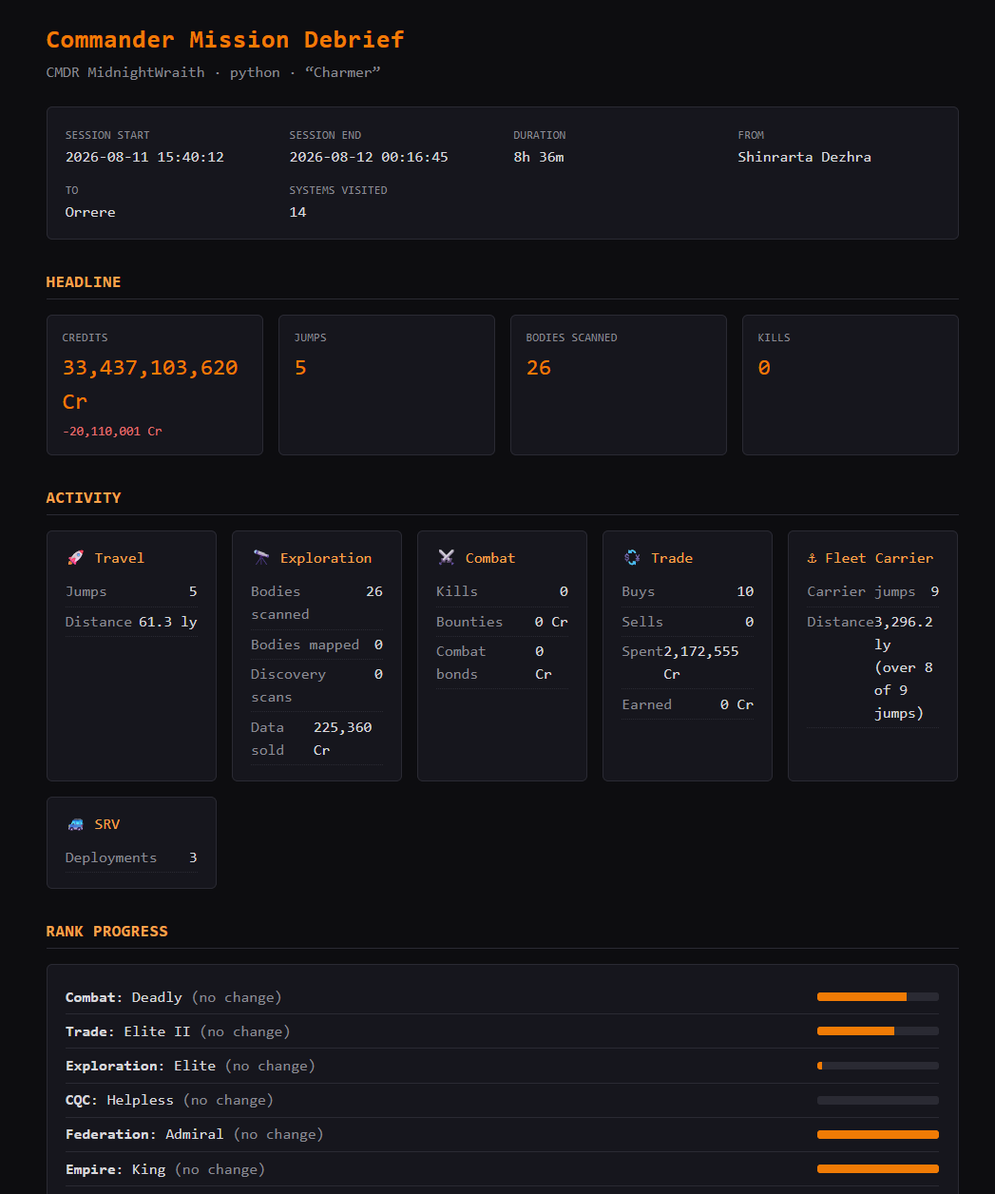
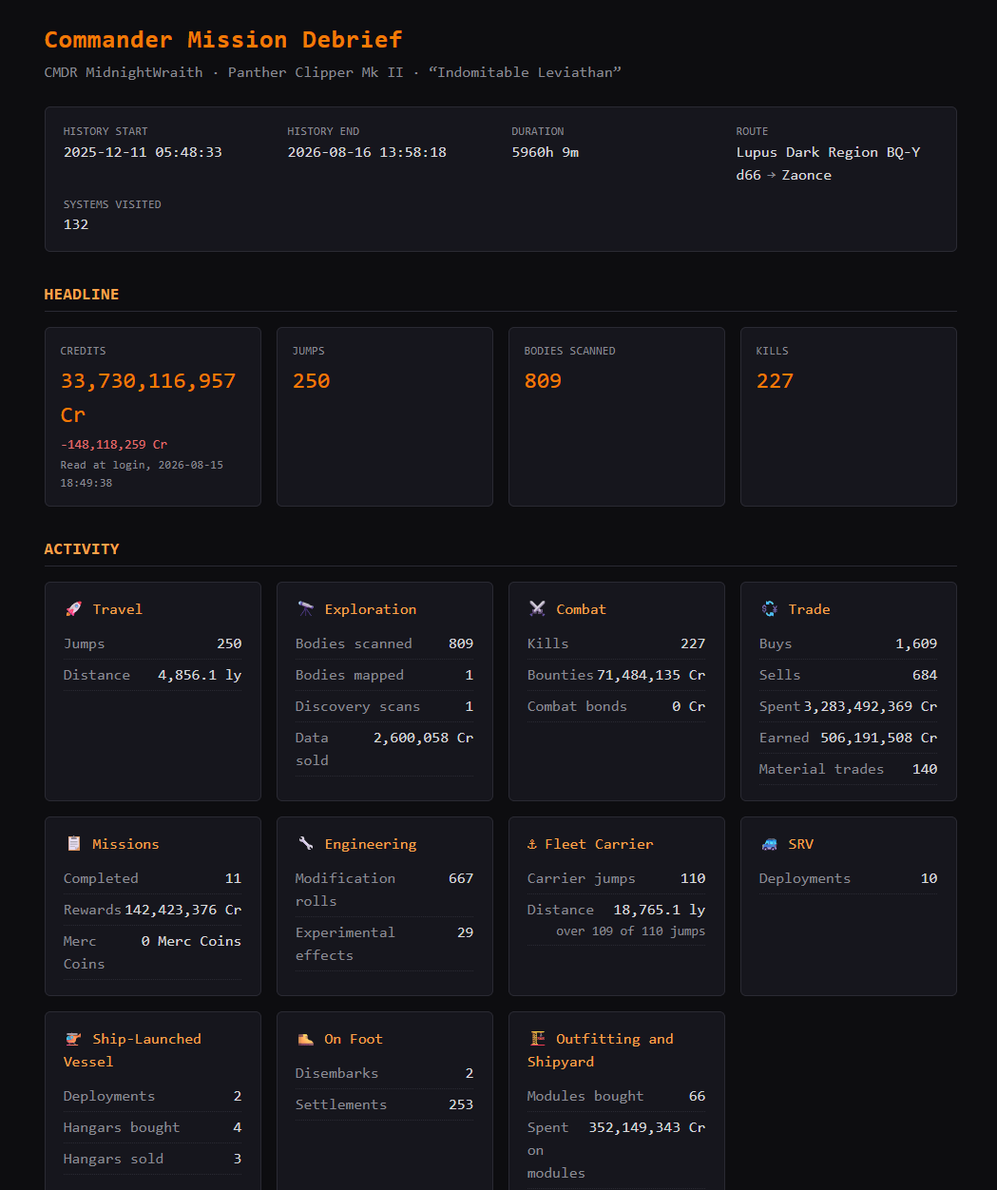
Documentation pass: record the outfitting work and correct the mission-path claim
TECH_DEBT item 1 stated zero MissionCompleted events across 77 files and concluded the mission path had never been exercised against real data. There are now 11 across 82 files, so the mission path is proven; the coins field is not, because every one is an ordinary mission and none carries a merc or coin key. Their full key set is recorded so the next reader need not re-derive it.

The resolved 399-line entry is deleted outright rather than marked done.

README gains the dated balance, outfitting and shipyard trade with transfers, and the engineering split. ARCHITECTURE gains the level-has-an-age point, the three-reading balance fold, where_present on the where-filter decision and three rationale rows, including why the balance is dated rather than derived and the measurement that settled it.

The site gains two feature cards and an accurate alt text for the retaken screenshot, which shows a history report rather than a session one.

diff --git a/docs/index.html b/docs/index.html
@@ -466,6 +466,16 @@
           <p>The credit change is the difference between your balance at each end of the session, so a rebuy, an outfitting bill or a hold full of tritium counts against you exactly as it did in game. A session that ended poorer says so.</p>
         </div>
         <div class="card">
+          <div class="icon">&#128339;</div>
+          <h3>A balance that says its age</h3>
+          <p>The journal states your balance when you log in and never again, so on a long session that figure is what you had when you sat down. The report prints the moment it was read beneath it, rather than letting a reading hours old pass for a current one.</p>
+        </div>
+        <div class="card">
+          <div class="icon">&#128295;</div>
+          <h3>Outfitting and the shipyard</h3>
+          <p>Modules and ships bought and sold, counted and priced on each side rather than netted off, so a refit reads as the two things it was. Ship transfers get their own line, since a transfer buys nothing and still costs. Each one is a row in the log naming the item and the price.</p>
+        </div>
+        <div class="card">
           <div class="icon">&#128506;</div>
           <h3>Distance travelled</h3>
           <p>The light years your ship covered, read from the distance each jump states. Your fleet carrier is measured too, worked out from where it arrived, since a carrier jump never records how far it came.</p>
@@ -503,7 +513,7 @@
         <div class="card">
           <div class="icon">&#128736;</div>
           <h3>Every row says what you did</h3>
-          <p>An engineering roll names the blueprint, the grade, the module and the engineer who applied it, so an evening of two hundred rolls reads as the work it was rather than two hundred identical lines. It reads in English too: the journal calls a module int_sensors_size5_class2 and the report calls it a 5D Sensors. Where the journal did not record something a row needs, the row says less rather than guessing.</p>
+          <p>An engineering roll names the blueprint, the grade, the module and the engineer who applied it, so an evening of two hundred rolls reads as the work it was rather than two hundred identical lines. Applying an experimental effect is its own row and its own figure, because the journal reports it as a roll and it is not one. It reads in English too: the journal calls a module int_sensors_size5_class2 and the report calls it a 5D Sensors. Where the journal did not record something a row needs, the row says less rather than guessing.</p>
         </div>
         <div class="card">
           <div class="icon">&#128142;</div>
@@ -542,7 +552,7 @@
       <h2>Example output</h2>
       <div class="shot">
         <a href="example-report.html" title="Open the full example report">
-          <img src="assets/screenshot.png" loading="lazy" alt="An o7 Debrief report showing the session header, headline totals with a credit balance beside the change, the per-domain activity cards and rank progress">
+          <img src="assets/screenshot.png" loading="lazy" alt="An o7 Debrief history report showing the history header with its start, end, duration, route and systems visited; headline totals with the credit balance, the change beside it and the moment the balance was read; and the per-domain activity cards, among them Outfitting and Shipyard, an Engineering card split between modification rolls and experimental effects, plus a Fleet Carrier distance stating how many of its jumps the total covers">
         </a>
         <p class="caption">A debrief covering a commander's whole journal history. <a href="example-report.html">Open the full example report &rarr;</a></p>
       </div>
@@ -573,7 +583,7 @@
         </div>
         <div class="card">
           <h3>What does an Elite Dangerous debrief track?</h3>
-          <p>Credits, jumps, distance travelled by your ship and your fleet carrier, scans across exploration, mining, trading, bounty hunting and exobiology, plus missions and Operations (naming each mission and the Merc Coins an Operation pays, kept separate from your credits), deaths (who died, in what, at whose hands and what the rebuy cost) and Commander rank progress, with every figure traced to a real journal entry. Where the journal states nothing, the report says so rather than printing a zero you would read as a real figure.</p>
+          <p>Credits, jumps, distance travelled by your ship and your fleet carrier, scans across exploration, mining, trading, bounty hunting and exobiology, outfitting and shipyard trade (modules and ships bought, sold and transferred, each side priced separately), engineering split between grade rolls and experimental effects, plus missions and Operations (naming each mission and the Merc Coins an Operation pays, kept separate from your credits), deaths (who died, in what, at whose hands and what the rebuy cost) and Commander rank progress, with every figure traced to a real journal entry. Where the journal states nothing, the report says so rather than printing a zero you would read as a real figure.</p>
         </div>
         <div class="card">
           <h3>Do I need to keep o7 Debrief running while I play?</h3>

diff --git a/ARCHITECTURE.md b/ARCHITECTURE.md
@@ -4,7 +4,7 @@ o7 Debrief is a local-first desktop application that turns the Elite Dangerous p
 
 The governing idea: a debrief is a deterministic function of the journal bytes for one session. Everything else (a tray, a one-shot command, an export format) is plumbing around that function. The architecture exists to keep that function pure, the data real and the layers honest.
 
-The organising distinction inside that function is between a **level** and an **event**. A level is a state the journal states outright: a credit balance, the active ship, a rank percentage, the current star system. It persists until something changes it, so the last known reading stays valid and may be carried forward from earlier history. An event belongs to the session that produced it: a jump, a bounty, a scan. Levels are read from the raw events and passed into the domain as readings; events are folded from moments. Confusing the two is what makes a report say zero where it should say nothing was read, so the split is structural rather than stylistic: `assemble()` derives no level at all.
+The organising distinction inside that function is between a **level** and an **event**. A level is a state the journal states outright: a credit balance, the active ship, a rank percentage, the current star system. It persists until something changes it, so the last known reading stays valid and may be carried forward from earlier history. A level therefore has an age as well as a value, which the credit balance is the case that proves: the journal states it at a login and never again, so the report carries the moment of the reading beside the figure rather than presenting a level hours old as a current one. An event belongs to the session that produced it: a jump, a bounty, a scan. Levels are read from the raw events and passed into the domain as readings; events are folded from moments. Confusing the two is what makes a report say zero where it should say nothing was read, so the split is structural rather than stylistic: `assemble()` derives no level at all.
 
 The session's net credit change is where that distinction earns its keep, because it looks like an event fold and is not one. Folding the moments totals only what the journal itemises, which is income: a rebuy, an outfitting bill and a hold full of tritium leave no credit delta on any moment, so a session that lost twenty million credits reported a gain of two hundred thousand. The change is therefore derived from the level instead, as the difference between the first and last balance the journal stated in the session. That figure needs no rule to price an outgoing and cannot be wrong about one it has never heard of. It is optional for the same reason every level is: a session stating fewer than two balances has no measurable change and reports none rather than a zero.
 
@@ -71,7 +71,7 @@ The domain plus stdlib only; it never imports infrastructure or UI. It defines t
 - The paging of a whole-history log, which is a decision about the report rather than about its markup and so is settled here rather than in a renderer. The log is split into pages keyed on the calendar month they cover, each month filled from its oldest row forward; the day headings are recomputed for every page and every tab from the rows that page holds. Two further services bound rather than divide the report: a daily rollup that folds the older tail into one row per day per category, measured back from the newest row rather than from a clock so the same journal always renders the same way; and a cap for the one-document mode that trims the log and words the shortfall into the footer.
 - The use cases: a live watch loop that debriefs the session at shutdown, a one-shot debrief of the last session and a one-shot debrief of the full history to date. The all-history use case folds the journal file by file, keeping only the moments, the state-bearing events and the window endpoints rather than every event at once. Every path calls the same domain reducer.
 - An update service that compares the running version against the latest release through a pure version comparison, honours a caller-supplied skipped version (so a release the player skipped never prompts again on the automatic checks) and selects the platform's own installer asset by filename suffix, so the ui can offer a direct download with the releases page as the fallback. It is the only application service that touches the network and it reaches it solely through the injected release-source port.
-- The level folds, one per state the journal reports outright: the active ship over time (so a death names the hull flown at that instant rather than the one the session ended in), the systems visited, the credit balances and the readings gathered around each death. Each takes raw events and returns a small immutable history the builder passes into the domain as a reading. The balance fold yields two of them: the latest reading as the level and the difference between the first and last as the session's net change. They live here rather than in the domain because they read the journal's own vocabulary, which is configuration to the domain, not part of it.
+- The level folds, one per state the journal reports outright: the active ship over time (so a death names the hull flown at that instant rather than the one the session ended in), the systems visited, the credit balances and the readings gathered around each death. Each takes raw events and returns a small immutable history the builder passes into the domain as a reading. The balance fold yields three: the latest reading as the level, the moment that reading was taken and the difference between the first and last as the session's net change. They live here rather than in the domain because they read the journal's own vocabulary, which is configuration to the domain, not part of it.
 - A field diagnostic that reports when a taxonomy rule names a payload field the matching event never carried (or carried in a form the reader could not use), so a value the report could not read is stated instead of printed as zero. It watches the magnitude field as well as the currency field, because the jump-distance defect proved that a field can be present, named correctly and still go unread.
 
 A use case may itself be an immutable object holding its injected dependencies.
@@ -177,13 +177,16 @@ Rank handling reflects what the journal can actually tell us. A `Promotion` (a t
 | A second launch summons the running copy through a file, never a socket. | The app has no window of its own, so where no system tray is drawn it is unreachable; launching it again is what a user tries; it did nothing visible. The obvious mechanism, a local socket the running copy listens on, is the one thing the keystone above rules out: it would give the app an inbound surface to defend and a port to own, to save a window nobody can open. A marker file in the directory that already holds the single-instance lock costs a poll of one stat and stays entirely on the filesystem. The marker carries no instruction either, only its own presence, so a second process can ask to be seen and can direct nothing. | A listening socket, a local port, an inbound surface of any kind; a second process able to tell the running one what to do. |
 | Batch reporting, not live. | The value is reflective: a coherent end-of-session summary. A live feed is a different product (an overlay) with different constraints. | Real-time on-screen updates, an in-game overlay, continuous streaming of partial state. |
 | TOML configuration for the event taxonomy. | The mapping from raw events to moments is data, not code; holding it in TOML (read with stdlib `tomllib`) keeps magic numbers and domain-specific mappings out of the logic and makes the taxonomy reviewable. | Hardcoded event-to-moment mappings and tuning constants scattered through the codebase. |
-| A data-driven where-filter on a moment rule. | Some journal events are shared across many subjects and only become a specific moment when one payload field carries a distinguishing token. The Nomad reuses `LaunchFighter` to deploy (a Nomad deployment only when its `Loadout` is one of the vessel variants) and `ModuleBuy` covers the Vessel Hangar (a hangar purchase only when the item name contains `fighterbay`). A rule may name a `where_field` and a list of `where_contains` tokens, matching when the field contains any of them, so the discriminator lives in the taxonomy rather than as an event-name-specific branch in code. One event can carry several candidate rules (the Nomad and every fighter share `LaunchFighter`); the reducer uses the first whose filter matches, so taxonomy order sets precedence. The phase tracker reads the same Nomad-deployment discriminator from the taxonomy rather than hardcoding loadout strings. Adding a variant or correcting a game-side rename is a one-line config edit. | Per-event conditional logic in the reducer; hardcoded module, loadout or item identifiers in the domain. |
+| A data-driven where-filter on a moment rule. | Some journal events are shared across many subjects and only become a specific moment when one payload field carries a distinguishing token. The Nomad reuses `LaunchFighter` to deploy (a Nomad deployment only when its `Loadout` is one of the vessel variants) and `ModuleBuy` covers the Vessel Hangar (a hangar purchase only when the item name contains `fighterbay`). A rule may name a `where_field` and a list of `where_contains` tokens, matching when the field contains any of them, so the discriminator lives in the taxonomy rather than as an event-name-specific branch in code. Some events are told apart by which field is there rather than by what a field says, so a rule may instead name a `where_present`: an `EngineerCraft` that applies an experimental effect carries `ApplyExperimentalEffect` and a grade roll does not, while both carry the blueprint and the grade. One event can carry several candidate rules (the Nomad and every fighter share `LaunchFighter`); the reducer uses the first whose filter matches, so taxonomy order sets precedence. The phase tracker reads the same Nomad-deployment discriminator from the taxonomy rather than hardcoding loadout strings. Adding a variant or correcting a game-side rename is a one-line config edit. | Per-event conditional logic in the reducer; hardcoded module, loadout or item identifiers in the domain. |
 | Row wording lives in the taxonomy as data and renders strictly. | What a timeline row says is presentation; presentation over journal fields is configuration for the same reason the event mapping is, because it changes with the game rather than with the logic. Each rule therefore carries a template rendered against the raw payload, so naming the blueprint, grade, module and engineer of an engineering roll is a config edit rather than a code change. Rendering is strict about undefined names: a template the payload cannot satisfy produces nothing and the row falls back to naming its kind, because a half-rendered sentence is worse than a plain one. The engine sits in infrastructure behind a port so the application layer stays on the domain and the standard library. | Row wording hardcoded per event type in the presenter, which is what four conditional kinds already cost and what thirty would have cost; a lenient render that prints "Applied Weapon_Overcharged grade 5 to  at ." and lets a reader take the gaps for facts. |
 | Journal tokens are decoded into English structurally, with the vocabulary in the taxonomy. | The journal states no readable name for a module: across 182 fitted modules in a real journal, not one carried an `Item_Localised`, so there is nothing to look up and the English must come from the token. The decode is therefore structural rather than a product dictionary; every word it emits is a transliterated part of the token, a substitution the taxonomy names or a rating letter from the taxonomy's own table. A part with no entry is title-cased and kept, so a vocabulary gap shows up in the report as an odd word rather than as a module that silently loses half its name. | Printing `int_sensors_size5_class2` at a Commander; a hardcoded product dictionary in code, which would need a release to correct a game-side rename; dropping an unrecognised part, which would report a different module from the one that was engineered. |
 | A material trade is a trade moment with no credit figure. | A material-trader exchange is paid for in materials and the journal states no price for it, so there is nothing to read into either credit column. The Trade rollup counts the exchanges beside the market figures instead, which is what lets a session that traded 31 times at the traders and bought nothing on any market report both truthfully at once. | Pricing the exchange with an invented figure; folding it into spend or earnings; leaving material trading out of the report entirely, which is what happened while the event had no rule at all. |
 | Merc Coins as a separate currency channel from credits. | Operations pay a Merc Coins reward alongside credits; coins are not credits. A moment carries a distinct `coins_delta` beside its `credits_delta`, summed into the Missions rollup's own `coin_rewards` total, so coins never join a credit figure. The coin field is read from a taxonomy-named `coins_field` because the reward is new game content absent from the published journal schema; if the live journal names it differently, only the taxonomy value changes. | Adding coins into a credit total; hardcoding the coin journal field name in the domain. |
 | The net credit change read from the balance, not folded from the moments. | The credit delta on a moment prices income, because that is what the journal itemises. Spending mostly is not itemised in a form any rule could total, so a fold could never see a rebuy, an outfitting bill or a market purchase; a session that ended twenty million credits down reported a gain. Both ends of the balance are stated outright at every `LoadGame`, so their difference captures every outgoing whether or not the journal names it. | A net figure that silently means "earned"; chasing completeness by adding a spending rule per event type, which would be permanently one game update behind. |
-| A purchase states its cost on the magnitude channel, not the credit channel. | The journal states a purchase cost in `TotalCost`, so reporting nought spent beside ten purchases was a figure the journal contradicted. Routing it through the moment's magnitude keeps spending out of every credit total while still reading what was stated. | Giving a buy a `credits_field`, which would fold spending into income; leaving a stated cost unread. |
+| A purchase states its cost on the magnitude channel, not the credit channel. | The journal states a purchase cost in `TotalCost`, so reporting nought spent beside ten purchases was a figure the journal contradicted. Routing it through the moment's magnitude keeps spending out of every credit total while still reading what was stated. The rule holds for every outgoing, not only a commodity buy: a module, a ship and a ship transfer each state a price and each rides magnitude. Credits is the income channel, so a purchase routed through it counts as money banked and one large enough raised the major-payout milestone for buying a frame shift drive. | Giving a buy a `credits_field`, which would fold spending into income; leaving a stated cost unread. |
+| An experimental effect is a moment of its own, told apart by a field's presence. | The journal reports applying an experimental effect as an `EngineerCraft` carrying the blueprint and grade already on the module, so it is indistinguishable from a grade roll by any value. Only the applying event carries `ApplyExperimentalEffect`; `ExperimentalEffect` is restated by every later roll on that module and so cannot separate them. Counting the two together made four effects and thirty rolls read as thirty-four modifications, which describes work that did not happen. | Matching on the restated field, which would count every subsequent roll as another experimental; one engineering figure that conflates two different kinds of work. |
+| Outfitting and shipyard trade counted per side, with what cannot be counted declared. | Modules and ships bought and sold were absent from the report entirely, so a session that sold eighty stored modules for nearly two billion credits showed a balance change with nothing to account for it. Each side keeps its own count and its own sum, because a refit that spent on new modules and recovered money on the old is not the same session as one that did neither and a net figure reports them identically. Two things the journal will not support are stated in the section note rather than silently missing: a Vessel Hangar bay uses the same outfitting events and is counted under the vessel instead; a ship taken in part-exchange is priced inside the purchase event and stated as no sale at all. | A single net outfitting figure; counting a hangar bay twice; implying the totals are the whole trade when the journal does not state it. |
+| The credit balance is dated, never derived. | A balance from `LoadGame` is hours old by the end of a long session, so the obvious repair is to apply every priced event to it. Measured against a real journal, which states the true answer at the next login, that derivation matched on two of fifty-four active spans and was out by a median of about eight million credits; four spans moved the balance with no priced event in them at all and the residuals ran both ways, so no missing rule would close it. The journal does not state every credit movement, so the reading is reported with the moment it was taken instead. | A derived closing balance presented as a balance; a figure confidently wrong by millions on exactly the sessions a reader would consult it for. |
 | A carrier distance derived from positions rather than read. | A `CarrierJump` states the destination `StarPos` but no `JumpDist`, so the only evidence of distance is the gap between consecutive arrivals. That gap is measurable for every leg except the first of a session, whose origin the session never states. The rollup therefore carries the measured leg count beside the distance and the report names it, rather than presenting a short total as the whole. | Inventing an origin for the first jump; reporting an incomplete total as though it were complete; leaving the distance out because it cannot be read directly. |
 | Session isolation by `Shutdown` bracketing. | A session is one game run, bounded by `Shutdown` events; the latest is the run ending at the last `Shutdown`. Anchoring on `Shutdown` rather than `LoadGame` keeps a run that returned to the main menu (which fires a fresh `LoadGame`) whole. Defining it structurally means a previous session can never bleed into the current debrief. | Heuristic session boundaries, time-window guesses and shrinking a run to its final leg by anchoring on `LoadGame`. |
 | A history report paged into a bundle, not accumulated into one document. | A history report is regenerated every time the game closes and grows for ever, so one document eventually stops being openable and is rewritten whole on every quit. Splitting it into an index and a page per month, with one shared stylesheet rather than the palette repeated on every page, keeps each page small and lets an unchanged page be left alone. The session report is deliberately exempt: it is small and being able to hand somebody the whole file is the point of it. | A single history document that grows without limit; a bundle for the session report, which would cost its portability for nothing. |

diff --git a/README.md b/README.md
@@ -52,14 +52,17 @@ macOS is not supported.
 - Ship-launched fighter coverage: deploying, docking and losing a fighter (the F63 Condor, GU-97, Taipan and the Guardian Trident, Javelin and Lance, in any loadout variant) each appear as their own row in a dedicated fighter context, named from the journal loadout. Flying a fighter yourself is its own control context; an NPC-crewed fighter leaves you in the ship.
 - Clearer session log: each row shows the activity it records (a trade, a bounty, a scan) rather than which control mode you were in. The log is ordered most recent first, so the latest thing you did sits at the top.
 - Dates where they are needed and nowhere else. A log covering more than one day heads each day with its date, so a history report reading 15:15:30 above 11:48:26 is plainly two different days rather than a broken sort. A single session shows no dates at all and keeps the narrow time column. A session that crosses midnight gets them. The grouping is worked out for each panel separately, so a category holding one afternoon's rows stays undated even when the full log spans months. Every time in the report is the journal's own UTC, shown unconverted and labelled as such in the footer, which is also why a daylight-saving change cannot file a row under the wrong day.
-- A session log that says what you actually did. Every row states the specifics the journal recorded rather than repeating the name of its kind: an engineering roll names the blueprint, the grade, the module and the engineer who applied it, so an evening of two hundred rolls reads as the work it was instead of two hundred identical lines. The wording of each row lives in the TOML taxonomy beside the rule that produces it, so changing how something reads is a config edit. A row whose journal entry lacks a field the wording needs falls back to naming its kind, because a sentence with a gap in it would read as a fact.
+- A session log that says what you actually did. Every row states the specifics the journal recorded rather than repeating the name of its kind: an engineering roll names the blueprint, the grade, the module and the engineer who applied it, so an evening of two hundred rolls reads as the work it was instead of two hundred identical lines. Applying an experimental effect gets its own row naming the effect, because the journal reports it as a roll and it is not one. The wording of each row lives in the TOML taxonomy beside the rule that produces it, so changing how something reads is a config edit. A row whose journal entry lacks a field the wording needs falls back to naming its kind, because a sentence with a gap in it would read as a fact.
 - Names in English, not in the journal's code. The journal calls a module `int_sensors_size5_class2` and never states a readable name for one, so o7 Debrief decodes the token and reports a 5D Sensors, a Medium Gimballed Multi-Cannon, a Long Range Sensor blueprint. The decode is structural and its vocabulary is in the taxonomy: every word shown is a part of the token, a substitution the config names or a rating letter from the config's own table. A part the vocabulary does not cover is kept and title-cased rather than dropped, so an unrecognised module still reads as itself and the gap is visible in the report instead of silently swallowed.
 - Material trading is reported. Exchanges at the raw, manufactured and encoded material traders appear in the session log naming both sides ("Traded 90 ruthenium for 15 technetium at the raw trader") and are counted in the Trade section. They carry no credit figure because they cost no credits: you pay in materials and the journal states no price.
 - Deaths that stand alone: a death row reports who destroyed you, by name, with their ship, rank and squadron where the journal records them and every attacker listed for a wing kill; a self-destruct is named as such and an environmental death reads simply as a loss. The killer's ship is named from the targeting scan that preceded the kill, so it reads "Cobra Mk V" rather than the raw model token the death event carries.
 - Every death also names the victim: you, plus the vehicle you actually lost, at the moment you lost it rather than whatever you finished the session in. An SRV destroyed under you is named as the SRV, not the ship it launched from. The rebuy the resurrection charged closes the row, a real cost no other figure in the report accounts for.
 - Distances that are real: the Travel section totals the light years your ship actually covered, read from the distance each jump states. The Fleet Carrier section does the same for the carrier, worked out from the positions of the systems it arrived in, since a carrier jump records where it went and never how far it came. That leaves the first jump of a session with no origin to measure from, so the report says which jumps the total covers instead of quietly under-reporting.
 - A credit change that is the truth, not the takings. The headline sits your balance beside the session's real change, taken from the balances the journal states at each end, so a rebuy, an outfitting spree or a hold full of tritium counts against you exactly as it did in game. A session that ended poorer says so. Where the journal stated too few balances to measure a change, the report says the change is unread rather than showing a zero you would read as breaking even.
-- Readings the journal never gave are said out loud rather than shown as zero. A rank percentage carries its last known reading forward and reports "No reading" only when nothing is known at all, then the systems figure names where you actually are because a commander is always somewhere. Spending is shown too: the Trade section totals what your purchases actually cost, since the journal states it. A count of nothing is never printed where the truth is that nothing was read.
+- A balance that says when it was read. The journal states your balance at a login and never again, so on a long session the headline is what you had when you sat down rather than what you have now. The reading is real and it is what the journal said; the report prints the moment it was taken beneath it so you cannot mistake a figure hours old for a current one. There is no way to derive the closing balance instead: measured across a real journal, applying every priced event to the login reading matched the next login's stated balance on only two of fifty-four active sessions and was out by a median of eight million credits; four sessions moved the balance with no priced event of any kind in them.
+- Outfitting and the shipyard are accounted for. Modules and ships bought and sold are counted and priced on each side separately, so a refit that spent six million on new modules and took back nearly two billion for the old ones reads as what it was rather than as a single net figure. Ship transfers carry their own pair of lines, since a transfer buys nothing and still costs real money. Each purchase, sale and transfer is a row in the log naming the item and its price. The section states the two things the journal will not let it count: a Vessel Hangar bay, which is counted under Ship-Launched Vessel; and a ship taken in part-exchange, for which the journal states no sale.
+- Engineering counts rolls and experimentals apart. A grade is rolled over and over for one module; an experimental effect is chosen once and applied once. The journal reports both as the same event, so counted together a session spent picking four effects and making thirty rolls read as thirty-four modifications.
+- Readings the journal never gave are said out loud rather than shown as zero. A rank percentage carries its last known reading forward and reports "No reading" only when nothing is known at all, then the systems figure names where you actually are because a commander is always somewhere. Spending is shown too: the Trade section totals what your commodity purchases actually cost and the Outfitting and Shipyard section what your modules, ships and transfers did, since the journal states each. A count of nothing is never printed where the truth is that nothing was read.
 - A Notices block that appears only when it must: if the taxonomy names a journal field an event never carried (or carried in a form the report could not read), it says so instead of quietly printing zero, naming the event and the field.
 - Combat kills name the ship: a bounty row names the ship you destroyed (any type, since NPCs can fly any ship, including a ship-launched fighter), so what you killed and what killed you both identify the ship type.
 - Missions and Operations name themselves: a completed mission row names the mission (an Operation carries a readable title) and its issuing faction; an Operation also surfaces the Merc Coins it paid on the row, for example "Completed Infiltrate the compound for Fong Wang Limited (+500 Merc Coins)". The Missions section totals both the credit reward and the Merc Coins separately; the Merc Coins never join a credit figure because they are a distinct currency. The Merc Coins journal field is named in the taxonomy, so a game-side change to it is a one-line config edit. If the named field is absent from an Operation the report raises a notice rather than reporting a reward of zero.

diff --git a/TECH_DEBT.md b/TECH_DEBT.md
@@ -33,11 +33,13 @@ The name was searched for in the sources that would document it. None do.
 
 The consequence is worse than a possibly misspelled key. A schema that tracks the journal actively shows `MissionCompleted` unchanged, so the reward may ride a different event entirely or may not be journalled at all. The assumption is therefore open on two axes: the field name and the event that carries it.
 
-### It cannot be closed from this machine
+### The mission path is now exercised; the Operations reward still is not
 
-The local journals hold **zero** `MissionCompleted` events across all 77 files. Every occurrence of "Coin" in them is another commander's chat message. So the mission path as a whole, not only the coins field, has never been exercised against real data here; no amount of reading the existing journals can confirm anything.
+The local journals have since gained real missions. Across 82 files they hold 11 `MissionCompleted` events, so the mission path as a whole is no longer untested against real data: the events parse, the rule fires and the rows name the mission and its faction from a real journal rather than from a fixture. That much has moved.
 
-This is a verification gap rather than a defect and it closes with evidence rather than with code: complete a real Operation, read the journal line and confirm both the event and the key. Nothing further can be built for it, because both things worth building are built:
+The coins field has not. Every one of those 11 is an ordinary mission, none is an Operation and not one carries a field whose name contains either "merc" or "coin". Their full key set is Category, Category_Localised, Count, DestinationStation, DestinationSystem, Effect, Effect_Localised, Effects, Faction, FactionEffects, Influence, KillCount, LocalisedName, MaterialsReward, MissionID, Name, Name_Localised, Reputation, ReputationTrend, Reward, SystemAddress, TargetFaction, TargetType, TargetType_Localised and Trend: no coin field, no currency but credits. That is consistent with an ordinary mission paying no coins, so it neither confirms nor refutes the assumption. Every occurrence of "Coin" anywhere in the journals is still another commander's chat message.
+
+This remains a verification gap rather than a defect and it closes with evidence rather than with code: complete a real Operation, read the journal line and confirm both the event and the key. Nothing further can be built for it, because both things worth building are built:
 
 - The config value carries a note recording what it was confirmed against, which is nothing. The comment there previously read as though the name had been confirmed against a real journal, which was the opposite of the truth.
 - A rule naming a field its matching event did not carry is surfaced as a notice in the report (`application/services/field_diagnostics.py`). That converts a silent zero into something observable without weakening the domain rule; it is also what will report which event actually carries the reward the first time one is paid.
@@ -88,7 +90,6 @@ So the shape of this item has inverted. It was "the install works and the play p
 
 ## Looks like debt, not worth touching
 
-- `tests/domain/aggregation/test_moment_factory.py` (399). It sits at the top of the 381 to 399 danger band, so it wants taking to 350 when next touched. The size test covers `o7debrief/`, `installer/`, `tests/` and the repository root, so it will catch it the moment it grows.
 - The `tools/` scripts (`capture_home_dialog.py`, `capture_installer_window.py`, `capture_tray_menu.py`, `generate_example_report.py`, `make_icon.py`) printing to stdout. Development instruments, correctly separated from the package.
 - The very large number of single-name `__all__` declarations across `application/ports/` and `application/dto/`. Repetitive and correct: one concern per module. Most export exactly one name; the handful that export more export a cohesive cluster that has no meaning apart (a bundle and the files in it, a page and its tabs, a result and the port that returns it, the view and its sub-views), which is the same rule rather than an exception to it.
 - `schema_version="1.0.0"` appearing as a literal in a test fixture. Test data, not a version source.
